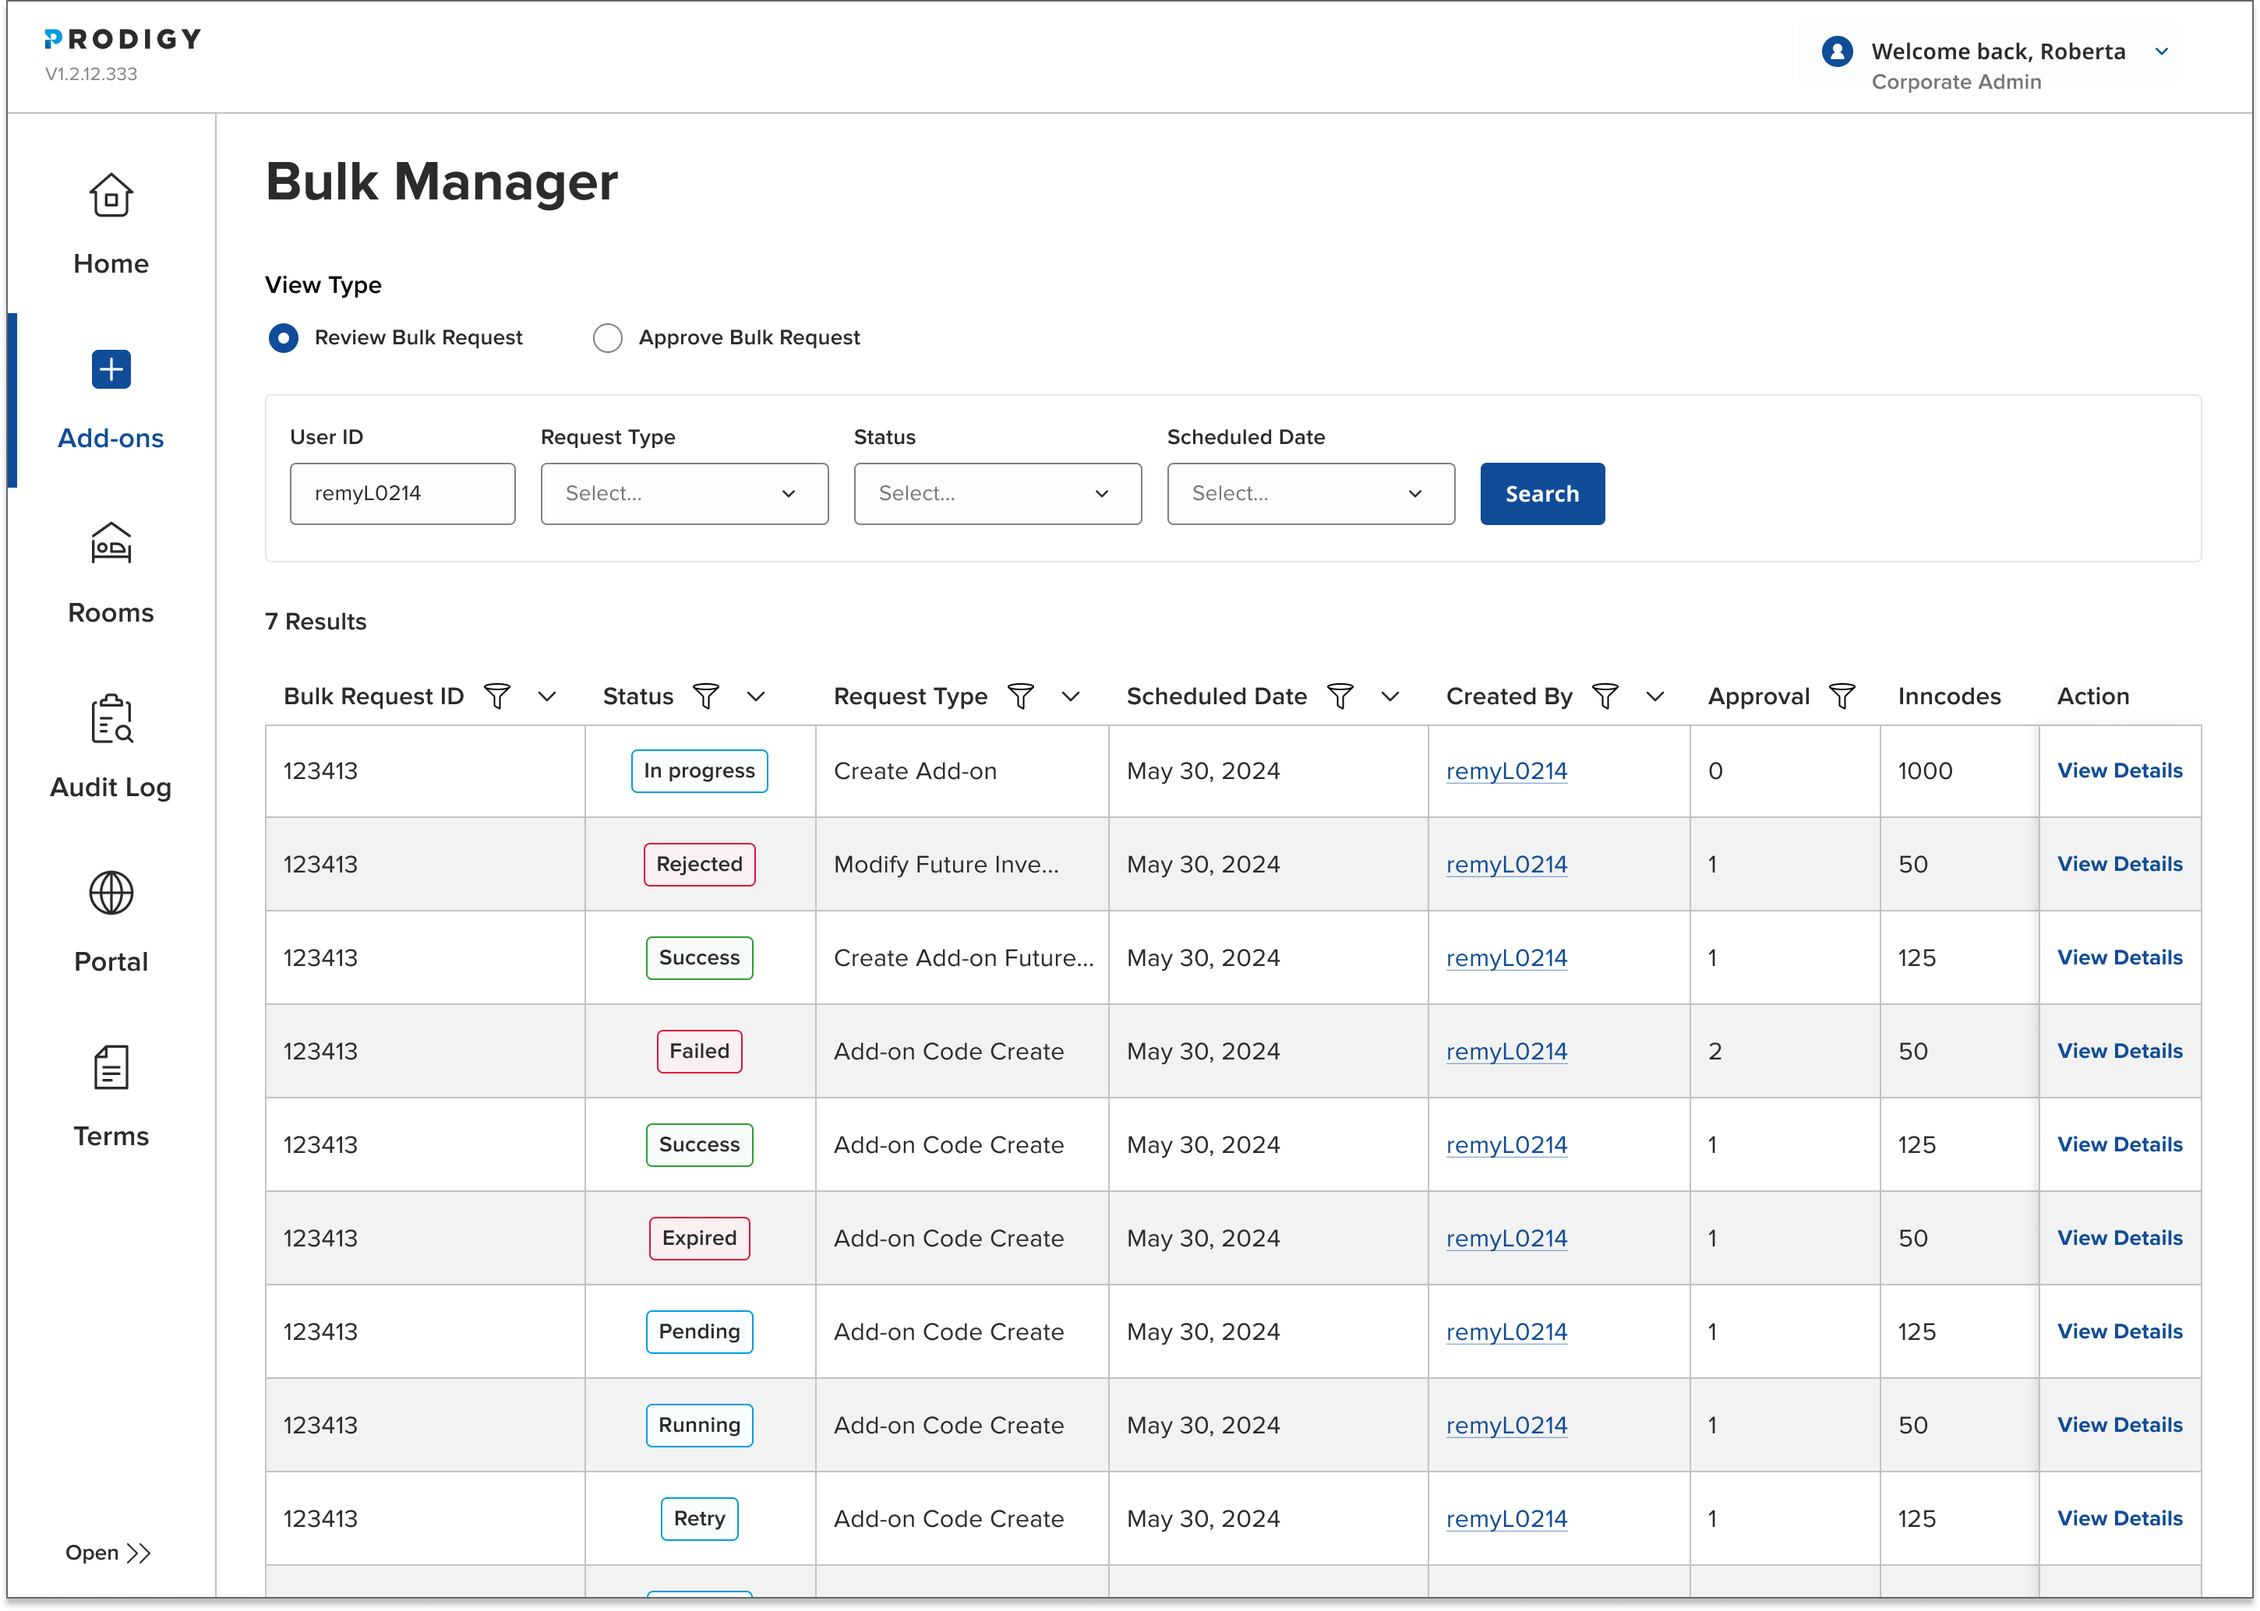
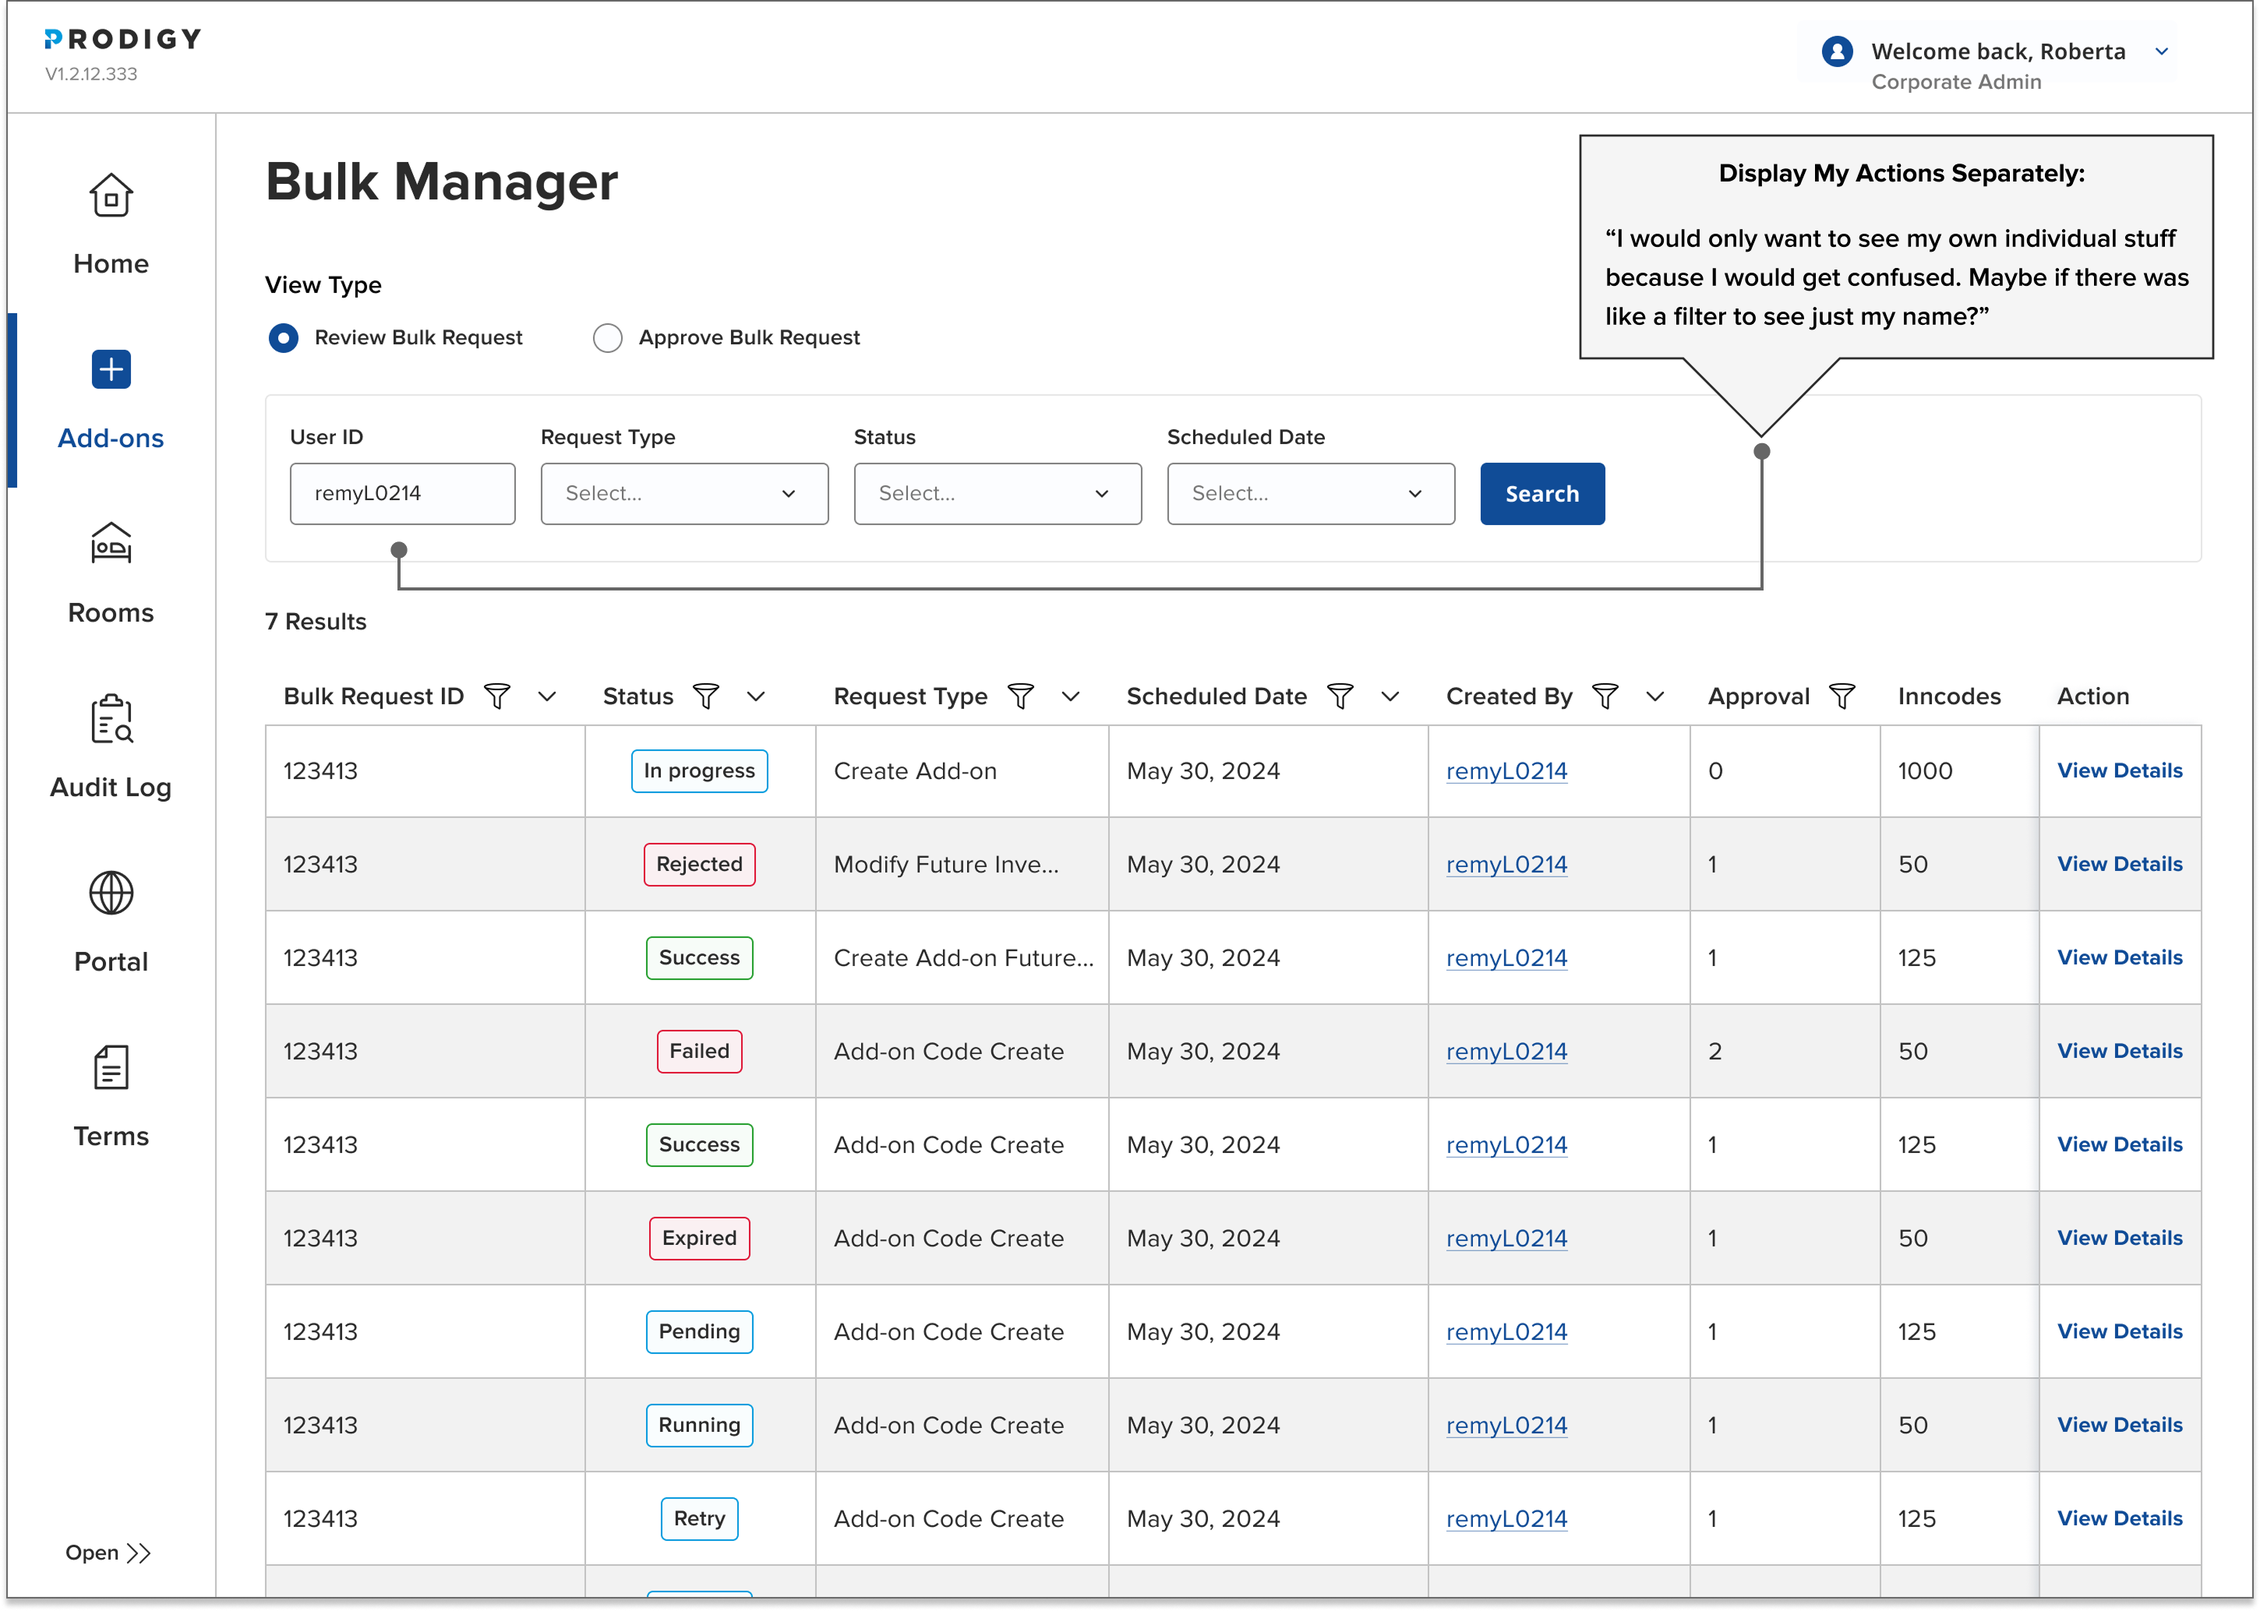
3

Changed region(s): [[0.7138, 0.0928, 0.9621, 0.2166]]

diff --git a/bulk.html b/bulk.html
@@ -298,6 +298,7 @@
       <div class="row">
         <div class="span">
               <h3 class="ps-1 text-dark"> Bulk Manager</h3>
+              <p class="ps-1 text-dark"> Feedback was implemented into the phase 1 delviery.</p>
               <div class="col-md-8  line-height-28 last-paragraph-no-margin">
                 <ul class="list-style-6">
                     <li class="text-extra-small text-uppercase text-dark-gray font-weight-500 line-height-22">Improved Efficiency</li>
@@ -322,6 +323,7 @@
       <div class="row">
         <div class="span">
               <h3 class="ps-1 text-dark"> Bulk Templates</h3>
+              <p class="ps-1 text-dark"> Feedback affected the roadmap and was placed as a fast-follow to phase 1 delivery.</p>
               <div class="col-md-10  line-height-28 last-paragraph-no-margin">
                 <ul class="list-style-6">
                     <li class="text-extra-small text-uppercase text-dark-gray font-weight-500 line-height-22">Improved Efficiency</li>
